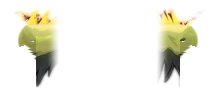
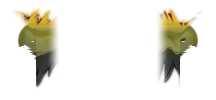
The owner's flaws, third pass, by the environment-art agent on its own branch, brought onto master: the bare bar of earth high under the vine (row 3, columns 334 to 399) is a bough of the riverside figs: a one-row wall floating high up (TerrainView._bough_cell, BOUGH_ROW, BOUGH_MIN) is painted by bo

Changed region(s): [[0.0833, 0.09, 0.2778, 0.54], [0.7222, 0.09, 0.9167, 0.54]]

diff --git a/New/tools/art/grass_ends_cap.py b/New/tools/art/grass_ends_cap.py
@@ -38,7 +38,7 @@ def smooth(a, b, x):
 
 
 def turf(src: np.ndarray) -> np.ndarray:
-    """ink.gdshader's `turf` light (round 23), baked before the bend: the strip gets it by its rows on screen, so a
+    """the turf's light (turf.gdshader; ink.gdshader's `turf` before), baked before the bend: the strip gets it by its rows on screen, so a
     bent end drawn with it had its blades repainted as a smooth lime band; TerrainView draws the ends with plain ink."""
     out = src.copy()
     c = out[..., :3] / 255.0
@@ -47,12 +47,14 @@ def turf(src: np.ndarray) -> np.ndarray:
     out[..., 3] *= smooth(0.05, 0.13, v[..., 0])
     c = c + ((c * np.array([1.12, 1.1, 0.96]) + np.array([0.04, 0.035, 0.0])) - c) * (1.0 - smooth(0.2, 0.26, v))
     band = smooth(0.22, 0.3, v) * (1.0 - smooth(0.5, 0.62, v))
-    sage = (lum + (c - lum) * 0.7) * np.array([1.16, 1.14, 0.98]) + np.array([0.06, 0.06, 0.02])
+    sage = (lum + (c - lum) * 0.6) * np.array([1.02, 1.0, 0.86]) + np.array([0.02, 0.02, 0.0])  # (turf.gdshader's)
     c = c + (sage - c) * band
     top = smooth(0.22, 0.25, v) * (1.0 - smooth(0.31, 0.4, v))
-    c = c + (np.array([0.9, 0.86, 0.56]) * (0.86 + 0.28 * lum) - c) * top * 0.5
+    c = c + (np.array([0.74, 0.7, 0.42]) * (0.8 + 0.3 * lum) - c) * top * 0.42 * 0.7  # (2026-11-13: turf.gdshader's olive-gold)
     lip = smooth(0.235, 0.25, v) * (1.0 - smooth(0.265, 0.285, v))
-    c = c + (np.array([0.98, 0.94, 0.7]) - c) * lip * 0.55
+    c = c + (c * 1.18 + np.array([0.05, 0.04, 0.0]) - c) * lip * 0.7 * 0.6
+    upper = 1.0 - smooth(0.34, 0.44, v)  # (turf.gdshader: the lime-yellow top an olive-gold a value lower)
+    c = c + (c * np.array([0.84, 0.8, 0.6]) * 0.95 - c) * upper
     under = smooth(0.48, 0.66, v)
     c = c + ((lum + (c - lum) * 0.3) * np.array([0.82, 0.8, 0.9]) * 0.72 - c) * under
     out[..., :3] = np.clip(c, 0, 1) * 255.0
